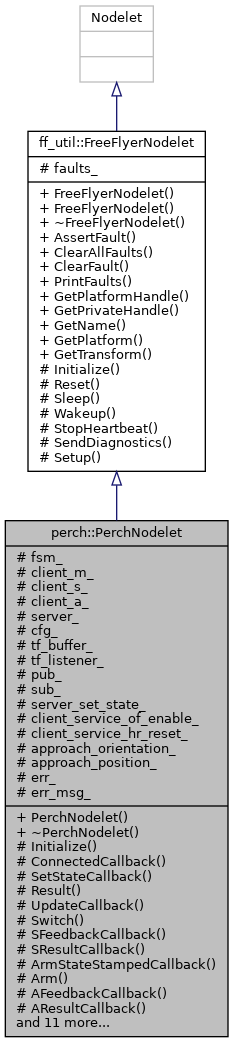
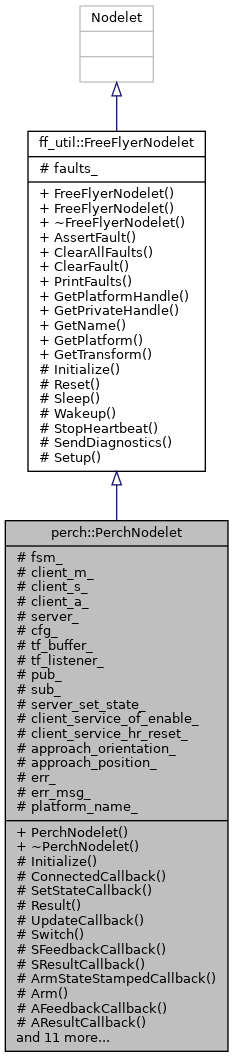
Automatic update for 440bc509898db420d36bb45fcc897477e37b78e2.

diff --git a/html/classperch_1_1PerchNodelet-members.html b/html/classperch_1_1PerchNodelet-members.html
@@ -149,41 +149,42 @@ $(document).ready(function(){initNavTree('classperch_1_1PerchNodelet.html',''); 
   <tr class="even"><td class="entry"><a class="el" href="classperch_1_1PerchNodelet.html#ad2a16e85c23e8ecea8188710818fe34aa5fa9d0b422ba157597ae1971b6d04cf5">PERCHED_POSE</a> enum value</td><td class="entry"><a class="el" href="classperch_1_1PerchNodelet.html">perch::PerchNodelet</a></td><td class="entry"></td></tr>
   <tr><td class="entry"><a class="el" href="classperch_1_1PerchNodelet.html#ab66fa590d2d337125562be31e0b57f59">PerchNodelet</a>()</td><td class="entry"><a class="el" href="classperch_1_1PerchNodelet.html">perch::PerchNodelet</a></td><td class="entry"><span class="mlabel">inline</span></td></tr>
   <tr class="even"><td class="entry"><a class="el" href="classperch_1_1PerchNodelet.html#ad2a16e85c23e8ecea8188710818fe34a">PerchPose</a> enum name</td><td class="entry"><a class="el" href="classperch_1_1PerchNodelet.html">perch::PerchNodelet</a></td><td class="entry"></td></tr>
-  <tr><td class="entry"><a class="el" href="classperch_1_1PerchNodelet.html#a13f90db0a3c7656fc5259d3a6a59ad55">PreemptCallback</a>()</td><td class="entry"><a class="el" href="classperch_1_1PerchNodelet.html">perch::PerchNodelet</a></td><td class="entry"><span class="mlabel">inline</span><span class="mlabel">protected</span></td></tr>
-  <tr class="even"><td class="entry"><a class="el" href="classperch_1_1PerchNodelet.html#acc71620066bdf17cabfdd3fb240f916a">Prep</a>(std::string const &amp;flight_mode)</td><td class="entry"><a class="el" href="classperch_1_1PerchNodelet.html">perch::PerchNodelet</a></td><td class="entry"><span class="mlabel">inline</span><span class="mlabel">protected</span></td></tr>
-  <tr><td class="entry"><a class="el" href="classff__util_1_1FreeFlyerNodelet.html#a4587540a3e0c0ab730abcf2133769964">PrintFaults</a>()</td><td class="entry"><a class="el" href="classff__util_1_1FreeFlyerNodelet.html">ff_util::FreeFlyerNodelet</a></td><td class="entry"></td></tr>
-  <tr class="even"><td class="entry"><a class="el" href="classperch_1_1PerchNodelet.html#ac66d2e7100cebd51326bc5b4eb410571adce2a29ca1815cfdf3c363ff689e65b8">PROXIMAL</a> enum value</td><td class="entry"><a class="el" href="classperch_1_1PerchNodelet.html">perch::PerchNodelet</a></td><td class="entry"></td></tr>
-  <tr><td class="entry"><a class="el" href="classperch_1_1PerchNodelet.html#a9d221a6052be407ad7d842a3bd6b0ad9">pub_</a></td><td class="entry"><a class="el" href="classperch_1_1PerchNodelet.html">perch::PerchNodelet</a></td><td class="entry"><span class="mlabel">protected</span></td></tr>
-  <tr class="even"><td class="entry"><a class="el" href="classperch_1_1PerchNodelet.html#a04c41d4211d1e163ef3a006dcdccf720af66be780679f25013369c01e3120ae4c">READY</a> enum value</td><td class="entry"><a class="el" href="classperch_1_1PerchNodelet.html">perch::PerchNodelet</a></td><td class="entry"></td></tr>
-  <tr><td class="entry"><a class="el" href="classperch_1_1PerchNodelet.html#ab07cd2ba225f21eb338d264daffacada">ReconfigureCallback</a>(dynamic_reconfigure::Config &amp;config)</td><td class="entry"><a class="el" href="classperch_1_1PerchNodelet.html">perch::PerchNodelet</a></td><td class="entry"><span class="mlabel">inline</span><span class="mlabel">protected</span></td></tr>
-  <tr class="even"><td class="entry"><a class="el" href="classperch_1_1PerchNodelet.html#ad2a16e85c23e8ecea8188710818fe34aa5e66d35579fba73113bfdc6a1e8aed64">RECOVERY_POSE</a> enum value</td><td class="entry"><a class="el" href="classperch_1_1PerchNodelet.html">perch::PerchNodelet</a></td><td class="entry"></td></tr>
-  <tr><td class="entry"><a class="el" href="classff__util_1_1FreeFlyerNodelet.html#a39839ecffed8b8045b5525074b568daf">Reset</a>()</td><td class="entry"><a class="el" href="classff__util_1_1FreeFlyerNodelet.html">ff_util::FreeFlyerNodelet</a></td><td class="entry"><span class="mlabel">inline</span><span class="mlabel">protected</span><span class="mlabel">virtual</span></td></tr>
-  <tr class="even"><td class="entry"><a class="el" href="classff__util_1_1FreeFlyerNodelet.html#aaa7a7972cd2a9cf72c38f831fee9eb33">ResolveType</a> enum name</td><td class="entry"><a class="el" href="classff__util_1_1FreeFlyerNodelet.html">ff_util::FreeFlyerNodelet</a></td><td class="entry"></td></tr>
-  <tr><td class="entry"><a class="el" href="classff__util_1_1FreeFlyerNodelet.html#aaa7a7972cd2a9cf72c38f831fee9eb33a4891484c396fd9b1e331521f3c5233e1">RESOURCE</a> enum value</td><td class="entry"><a class="el" href="classff__util_1_1FreeFlyerNodelet.html">ff_util::FreeFlyerNodelet</a></td><td class="entry"></td></tr>
-  <tr class="even"><td class="entry"><a class="el" href="classperch_1_1PerchNodelet.html#a3f0867fdd7d457fc89ee1ac8106ca30f">Result</a>(int32_t response, std::string const &amp;msg=&quot;&quot;)</td><td class="entry"><a class="el" href="classperch_1_1PerchNodelet.html">perch::PerchNodelet</a></td><td class="entry"><span class="mlabel">inline</span><span class="mlabel">protected</span></td></tr>
-  <tr><td class="entry"><a class="el" href="classperch_1_1PerchNodelet.html#a4cc13935161b3593ddb10ad72093dc50">SaveApproachPose</a>(void)</td><td class="entry"><a class="el" href="classperch_1_1PerchNodelet.html">perch::PerchNodelet</a></td><td class="entry"><span class="mlabel">inline</span><span class="mlabel">protected</span></td></tr>
-  <tr class="even"><td class="entry"><a class="el" href="classff__util_1_1FreeFlyerNodelet.html#afe589d3b48ecc862af9dfaf193d2342f">SendDiagnostics</a>(const std::vector&lt; diagnostic_msgs::KeyValue &gt; &amp;keyval)</td><td class="entry"><a class="el" href="classff__util_1_1FreeFlyerNodelet.html">ff_util::FreeFlyerNodelet</a></td><td class="entry"><span class="mlabel">protected</span></td></tr>
-  <tr><td class="entry"><a class="el" href="classperch_1_1PerchNodelet.html#ad369d9cb8c9f8a0613aae0413d3aebd8">server_</a></td><td class="entry"><a class="el" href="classperch_1_1PerchNodelet.html">perch::PerchNodelet</a></td><td class="entry"><span class="mlabel">protected</span></td></tr>
-  <tr class="even"><td class="entry"><a class="el" href="classperch_1_1PerchNodelet.html#a28080b67030739ce85aed8f3df52aaec">server_set_state_</a></td><td class="entry"><a class="el" href="classperch_1_1PerchNodelet.html">perch::PerchNodelet</a></td><td class="entry"><span class="mlabel">protected</span></td></tr>
-  <tr><td class="entry"><a class="el" href="classperch_1_1PerchNodelet.html#ac66d2e7100cebd51326bc5b4eb410571">ServoID</a> enum name</td><td class="entry"><a class="el" href="classperch_1_1PerchNodelet.html">perch::PerchNodelet</a></td><td class="entry"></td></tr>
-  <tr class="even"><td class="entry"><a class="el" href="classperch_1_1PerchNodelet.html#a92f73e5cfed8855159a4338e6a695d32">SetStateCallback</a>(ff_msgs::SetState::Request &amp;req, ff_msgs::SetState::Response &amp;res)</td><td class="entry"><a class="el" href="classperch_1_1PerchNodelet.html">perch::PerchNodelet</a></td><td class="entry"><span class="mlabel">inline</span><span class="mlabel">protected</span></td></tr>
-  <tr><td class="entry"><a class="el" href="classff__util_1_1FreeFlyerNodelet.html#a8c14890099697bcbfc10a898ba0696f0">Setup</a>(ros::NodeHandle &amp;nh, ros::NodeHandle &amp;nh_mt)</td><td class="entry"><a class="el" href="classff__util_1_1FreeFlyerNodelet.html">ff_util::FreeFlyerNodelet</a></td><td class="entry"><span class="mlabel">protected</span></td></tr>
-  <tr class="even"><td class="entry"><a class="el" href="classperch_1_1PerchNodelet.html#a7f746a3f330731db12b06a459b780b0e">SFeedbackCallback</a>(ff_msgs::LocalizationFeedbackConstPtr const &amp;feedback)</td><td class="entry"><a class="el" href="classperch_1_1PerchNodelet.html">perch::PerchNodelet</a></td><td class="entry"><span class="mlabel">inline</span><span class="mlabel">protected</span></td></tr>
-  <tr><td class="entry"><a class="el" href="classff__util_1_1FreeFlyerNodelet.html#a8b15ae96c86e24050c7dd468e988690e">Sleep</a>()</td><td class="entry"><a class="el" href="classff__util_1_1FreeFlyerNodelet.html">ff_util::FreeFlyerNodelet</a></td><td class="entry"><span class="mlabel">inline</span><span class="mlabel">protected</span><span class="mlabel">virtual</span></td></tr>
-  <tr class="even"><td class="entry"><a class="el" href="classperch_1_1PerchNodelet.html#a7b8b24ee33a46b0b606bb949aae603ca">SResultCallback</a>(ff_util::FreeFlyerActionState::Enum result_code, ff_msgs::LocalizationResultConstPtr const &amp;result)</td><td class="entry"><a class="el" href="classperch_1_1PerchNodelet.html">perch::PerchNodelet</a></td><td class="entry"><span class="mlabel">inline</span><span class="mlabel">protected</span></td></tr>
-  <tr><td class="entry"><a class="el" href="classff__util_1_1FreeFlyerNodelet.html#a7089eceb2b3bd66fb091b37693388e24">StopHeartbeat</a>()</td><td class="entry"><a class="el" href="classff__util_1_1FreeFlyerNodelet.html">ff_util::FreeFlyerNodelet</a></td><td class="entry"><span class="mlabel">protected</span></td></tr>
-  <tr class="even"><td class="entry"><a class="el" href="classperch_1_1PerchNodelet.html#a2c09f5a5e682dd540372e587cef6d77e">sub_</a></td><td class="entry"><a class="el" href="classperch_1_1PerchNodelet.html">perch::PerchNodelet</a></td><td class="entry"><span class="mlabel">protected</span></td></tr>
-  <tr><td class="entry"><a class="el" href="classperch_1_1PerchNodelet.html#a5fbc25618216ca7593864f1c191d77fa">Switch</a>(std::string const &amp;pipeline)</td><td class="entry"><a class="el" href="classperch_1_1PerchNodelet.html">perch::PerchNodelet</a></td><td class="entry"><span class="mlabel">inline</span><span class="mlabel">protected</span></td></tr>
-  <tr class="even"><td class="entry"><a class="el" href="classperch_1_1PerchNodelet.html#a04c41d4211d1e163ef3a006dcdccf720abe5983f83e54d0fcee44c19d1250cb84">SWITCH_FAILED</a> enum value</td><td class="entry"><a class="el" href="classperch_1_1PerchNodelet.html">perch::PerchNodelet</a></td><td class="entry"></td></tr>
-  <tr><td class="entry"><a class="el" href="classperch_1_1PerchNodelet.html#a04c41d4211d1e163ef3a006dcdccf720abe8aa48a128f67212d170e0b11248b6b">SWITCH_SUCCESS</a> enum value</td><td class="entry"><a class="el" href="classperch_1_1PerchNodelet.html">perch::PerchNodelet</a></td><td class="entry"></td></tr>
-  <tr class="even"><td class="entry"><a class="el" href="classperch_1_1PerchNodelet.html#a5da84625d974f5bf4405dd80999284a2">tf_buffer_</a></td><td class="entry"><a class="el" href="classperch_1_1PerchNodelet.html">perch::PerchNodelet</a></td><td class="entry"><span class="mlabel">protected</span></td></tr>
-  <tr><td class="entry"><a class="el" href="classperch_1_1PerchNodelet.html#adf4963218870de293cbd5e8dd28c1e4a">tf_listener_</a></td><td class="entry"><a class="el" href="classperch_1_1PerchNodelet.html">perch::PerchNodelet</a></td><td class="entry"><span class="mlabel">protected</span></td></tr>
-  <tr class="even"><td class="entry"><a class="el" href="classff__util_1_1FreeFlyerNodelet.html#aaa7a7972cd2a9cf72c38f831fee9eb33a975c794b90b06b8a2f47ac156f7050ec">TRANSFORM</a> enum value</td><td class="entry"><a class="el" href="classff__util_1_1FreeFlyerNodelet.html">ff_util::FreeFlyerNodelet</a></td><td class="entry"></td></tr>
-  <tr><td class="entry"><a class="el" href="classperch_1_1PerchNodelet.html#ad2a16e85c23e8ecea8188710818fe34aa88ec5eda6fef2b26349c2f127edb02ae">UNPERCHED_POSE</a> enum value</td><td class="entry"><a class="el" href="classperch_1_1PerchNodelet.html">perch::PerchNodelet</a></td><td class="entry"></td></tr>
-  <tr class="even"><td class="entry"><a class="el" href="classperch_1_1PerchNodelet.html#a0c8ff07fdc5403f78edb7551c330d4f3">UpdateCallback</a>(FSM::State const &amp;state, FSM::Event const &amp;event)</td><td class="entry"><a class="el" href="classperch_1_1PerchNodelet.html">perch::PerchNodelet</a></td><td class="entry"><span class="mlabel">inline</span><span class="mlabel">protected</span></td></tr>
-  <tr><td class="entry"><a class="el" href="classff__util_1_1FreeFlyerNodelet.html#aeb3ccafc1f4ffbb5e376c07c0f1eb3e8">Wakeup</a>()</td><td class="entry"><a class="el" href="classff__util_1_1FreeFlyerNodelet.html">ff_util::FreeFlyerNodelet</a></td><td class="entry"><span class="mlabel">inline</span><span class="mlabel">protected</span><span class="mlabel">virtual</span></td></tr>
-  <tr class="even"><td class="entry"><a class="el" href="classff__util_1_1FreeFlyerNodelet.html#af1b70761df2728f93b371ae518000a92">~FreeFlyerNodelet</a>()</td><td class="entry"><a class="el" href="classff__util_1_1FreeFlyerNodelet.html">ff_util::FreeFlyerNodelet</a></td><td class="entry"><span class="mlabel">virtual</span></td></tr>
-  <tr><td class="entry"><a class="el" href="classperch_1_1PerchNodelet.html#aa16619d6acc3767026608d96dbf93409">~PerchNodelet</a>()</td><td class="entry"><a class="el" href="classperch_1_1PerchNodelet.html">perch::PerchNodelet</a></td><td class="entry"><span class="mlabel">inline</span></td></tr>
+  <tr><td class="entry"><a class="el" href="classperch_1_1PerchNodelet.html#a2d02a7c1e8344a5b55b573f8221379db">platform_name_</a></td><td class="entry"><a class="el" href="classperch_1_1PerchNodelet.html">perch::PerchNodelet</a></td><td class="entry"><span class="mlabel">protected</span></td></tr>
+  <tr class="even"><td class="entry"><a class="el" href="classperch_1_1PerchNodelet.html#a13f90db0a3c7656fc5259d3a6a59ad55">PreemptCallback</a>()</td><td class="entry"><a class="el" href="classperch_1_1PerchNodelet.html">perch::PerchNodelet</a></td><td class="entry"><span class="mlabel">inline</span><span class="mlabel">protected</span></td></tr>
+  <tr><td class="entry"><a class="el" href="classperch_1_1PerchNodelet.html#acc71620066bdf17cabfdd3fb240f916a">Prep</a>(std::string const &amp;flight_mode)</td><td class="entry"><a class="el" href="classperch_1_1PerchNodelet.html">perch::PerchNodelet</a></td><td class="entry"><span class="mlabel">inline</span><span class="mlabel">protected</span></td></tr>
+  <tr class="even"><td class="entry"><a class="el" href="classff__util_1_1FreeFlyerNodelet.html#a4587540a3e0c0ab730abcf2133769964">PrintFaults</a>()</td><td class="entry"><a class="el" href="classff__util_1_1FreeFlyerNodelet.html">ff_util::FreeFlyerNodelet</a></td><td class="entry"></td></tr>
+  <tr><td class="entry"><a class="el" href="classperch_1_1PerchNodelet.html#ac66d2e7100cebd51326bc5b4eb410571adce2a29ca1815cfdf3c363ff689e65b8">PROXIMAL</a> enum value</td><td class="entry"><a class="el" href="classperch_1_1PerchNodelet.html">perch::PerchNodelet</a></td><td class="entry"></td></tr>
+  <tr class="even"><td class="entry"><a class="el" href="classperch_1_1PerchNodelet.html#a9d221a6052be407ad7d842a3bd6b0ad9">pub_</a></td><td class="entry"><a class="el" href="classperch_1_1PerchNodelet.html">perch::PerchNodelet</a></td><td class="entry"><span class="mlabel">protected</span></td></tr>
+  <tr><td class="entry"><a class="el" href="classperch_1_1PerchNodelet.html#a04c41d4211d1e163ef3a006dcdccf720af66be780679f25013369c01e3120ae4c">READY</a> enum value</td><td class="entry"><a class="el" href="classperch_1_1PerchNodelet.html">perch::PerchNodelet</a></td><td class="entry"></td></tr>
+  <tr class="even"><td class="entry"><a class="el" href="classperch_1_1PerchNodelet.html#ab07cd2ba225f21eb338d264daffacada">ReconfigureCallback</a>(dynamic_reconfigure::Config &amp;config)</td><td class="entry"><a class="el" href="classperch_1_1PerchNodelet.html">perch::PerchNodelet</a></td><td class="entry"><span class="mlabel">inline</span><span class="mlabel">protected</span></td></tr>
+  <tr><td class="entry"><a class="el" href="classperch_1_1PerchNodelet.html#ad2a16e85c23e8ecea8188710818fe34aa5e66d35579fba73113bfdc6a1e8aed64">RECOVERY_POSE</a> enum value</td><td class="entry"><a class="el" href="classperch_1_1PerchNodelet.html">perch::PerchNodelet</a></td><td class="entry"></td></tr>
+  <tr class="even"><td class="entry"><a class="el" href="classff__util_1_1FreeFlyerNodelet.html#a39839ecffed8b8045b5525074b568daf">Reset</a>()</td><td class="entry"><a class="el" href="classff__util_1_1FreeFlyerNodelet.html">ff_util::FreeFlyerNodelet</a></td><td class="entry"><span class="mlabel">inline</span><span class="mlabel">protected</span><span class="mlabel">virtual</span></td></tr>
+  <tr><td class="entry"><a class="el" href="classff__util_1_1FreeFlyerNodelet.html#aaa7a7972cd2a9cf72c38f831fee9eb33">ResolveType</a> enum name</td><td class="entry"><a class="el" href="classff__util_1_1FreeFlyerNodelet.html">ff_util::FreeFlyerNodelet</a></td><td class="entry"></td></tr>
+  <tr class="even"><td class="entry"><a class="el" href="classff__util_1_1FreeFlyerNodelet.html#aaa7a7972cd2a9cf72c38f831fee9eb33a4891484c396fd9b1e331521f3c5233e1">RESOURCE</a> enum value</td><td class="entry"><a class="el" href="classff__util_1_1FreeFlyerNodelet.html">ff_util::FreeFlyerNodelet</a></td><td class="entry"></td></tr>
+  <tr><td class="entry"><a class="el" href="classperch_1_1PerchNodelet.html#a3f0867fdd7d457fc89ee1ac8106ca30f">Result</a>(int32_t response, std::string const &amp;msg=&quot;&quot;)</td><td class="entry"><a class="el" href="classperch_1_1PerchNodelet.html">perch::PerchNodelet</a></td><td class="entry"><span class="mlabel">inline</span><span class="mlabel">protected</span></td></tr>
+  <tr class="even"><td class="entry"><a class="el" href="classperch_1_1PerchNodelet.html#a4cc13935161b3593ddb10ad72093dc50">SaveApproachPose</a>(void)</td><td class="entry"><a class="el" href="classperch_1_1PerchNodelet.html">perch::PerchNodelet</a></td><td class="entry"><span class="mlabel">inline</span><span class="mlabel">protected</span></td></tr>
+  <tr><td class="entry"><a class="el" href="classff__util_1_1FreeFlyerNodelet.html#afe589d3b48ecc862af9dfaf193d2342f">SendDiagnostics</a>(const std::vector&lt; diagnostic_msgs::KeyValue &gt; &amp;keyval)</td><td class="entry"><a class="el" href="classff__util_1_1FreeFlyerNodelet.html">ff_util::FreeFlyerNodelet</a></td><td class="entry"><span class="mlabel">protected</span></td></tr>
+  <tr class="even"><td class="entry"><a class="el" href="classperch_1_1PerchNodelet.html#ad369d9cb8c9f8a0613aae0413d3aebd8">server_</a></td><td class="entry"><a class="el" href="classperch_1_1PerchNodelet.html">perch::PerchNodelet</a></td><td class="entry"><span class="mlabel">protected</span></td></tr>
+  <tr><td class="entry"><a class="el" href="classperch_1_1PerchNodelet.html#a28080b67030739ce85aed8f3df52aaec">server_set_state_</a></td><td class="entry"><a class="el" href="classperch_1_1PerchNodelet.html">perch::PerchNodelet</a></td><td class="entry"><span class="mlabel">protected</span></td></tr>
+  <tr class="even"><td class="entry"><a class="el" href="classperch_1_1PerchNodelet.html#ac66d2e7100cebd51326bc5b4eb410571">ServoID</a> enum name</td><td class="entry"><a class="el" href="classperch_1_1PerchNodelet.html">perch::PerchNodelet</a></td><td class="entry"></td></tr>
+  <tr><td class="entry"><a class="el" href="classperch_1_1PerchNodelet.html#a92f73e5cfed8855159a4338e6a695d32">SetStateCallback</a>(ff_msgs::SetState::Request &amp;req, ff_msgs::SetState::Response &amp;res)</td><td class="entry"><a class="el" href="classperch_1_1PerchNodelet.html">perch::PerchNodelet</a></td><td class="entry"><span class="mlabel">inline</span><span class="mlabel">protected</span></td></tr>
+  <tr class="even"><td class="entry"><a class="el" href="classff__util_1_1FreeFlyerNodelet.html#a8c14890099697bcbfc10a898ba0696f0">Setup</a>(ros::NodeHandle &amp;nh, ros::NodeHandle &amp;nh_mt)</td><td class="entry"><a class="el" href="classff__util_1_1FreeFlyerNodelet.html">ff_util::FreeFlyerNodelet</a></td><td class="entry"><span class="mlabel">protected</span></td></tr>
+  <tr><td class="entry"><a class="el" href="classperch_1_1PerchNodelet.html#a7f746a3f330731db12b06a459b780b0e">SFeedbackCallback</a>(ff_msgs::LocalizationFeedbackConstPtr const &amp;feedback)</td><td class="entry"><a class="el" href="classperch_1_1PerchNodelet.html">perch::PerchNodelet</a></td><td class="entry"><span class="mlabel">inline</span><span class="mlabel">protected</span></td></tr>
+  <tr class="even"><td class="entry"><a class="el" href="classff__util_1_1FreeFlyerNodelet.html#a8b15ae96c86e24050c7dd468e988690e">Sleep</a>()</td><td class="entry"><a class="el" href="classff__util_1_1FreeFlyerNodelet.html">ff_util::FreeFlyerNodelet</a></td><td class="entry"><span class="mlabel">inline</span><span class="mlabel">protected</span><span class="mlabel">virtual</span></td></tr>
+  <tr><td class="entry"><a class="el" href="classperch_1_1PerchNodelet.html#a7b8b24ee33a46b0b606bb949aae603ca">SResultCallback</a>(ff_util::FreeFlyerActionState::Enum result_code, ff_msgs::LocalizationResultConstPtr const &amp;result)</td><td class="entry"><a class="el" href="classperch_1_1PerchNodelet.html">perch::PerchNodelet</a></td><td class="entry"><span class="mlabel">inline</span><span class="mlabel">protected</span></td></tr>
+  <tr class="even"><td class="entry"><a class="el" href="classff__util_1_1FreeFlyerNodelet.html#a7089eceb2b3bd66fb091b37693388e24">StopHeartbeat</a>()</td><td class="entry"><a class="el" href="classff__util_1_1FreeFlyerNodelet.html">ff_util::FreeFlyerNodelet</a></td><td class="entry"><span class="mlabel">protected</span></td></tr>
+  <tr><td class="entry"><a class="el" href="classperch_1_1PerchNodelet.html#a2c09f5a5e682dd540372e587cef6d77e">sub_</a></td><td class="entry"><a class="el" href="classperch_1_1PerchNodelet.html">perch::PerchNodelet</a></td><td class="entry"><span class="mlabel">protected</span></td></tr>
+  <tr class="even"><td class="entry"><a class="el" href="classperch_1_1PerchNodelet.html#a5fbc25618216ca7593864f1c191d77fa">Switch</a>(std::string const &amp;pipeline)</td><td class="entry"><a class="el" href="classperch_1_1PerchNodelet.html">perch::PerchNodelet</a></td><td class="entry"><span class="mlabel">inline</span><span class="mlabel">protected</span></td></tr>
+  <tr><td class="entry"><a class="el" href="classperch_1_1PerchNodelet.html#a04c41d4211d1e163ef3a006dcdccf720abe5983f83e54d0fcee44c19d1250cb84">SWITCH_FAILED</a> enum value</td><td class="entry"><a class="el" href="classperch_1_1PerchNodelet.html">perch::PerchNodelet</a></td><td class="entry"></td></tr>
+  <tr class="even"><td class="entry"><a class="el" href="classperch_1_1PerchNodelet.html#a04c41d4211d1e163ef3a006dcdccf720abe8aa48a128f67212d170e0b11248b6b">SWITCH_SUCCESS</a> enum value</td><td class="entry"><a class="el" href="classperch_1_1PerchNodelet.html">perch::PerchNodelet</a></td><td class="entry"></td></tr>
+  <tr><td class="entry"><a class="el" href="classperch_1_1PerchNodelet.html#a5da84625d974f5bf4405dd80999284a2">tf_buffer_</a></td><td class="entry"><a class="el" href="classperch_1_1PerchNodelet.html">perch::PerchNodelet</a></td><td class="entry"><span class="mlabel">protected</span></td></tr>
+  <tr class="even"><td class="entry"><a class="el" href="classperch_1_1PerchNodelet.html#adf4963218870de293cbd5e8dd28c1e4a">tf_listener_</a></td><td class="entry"><a class="el" href="classperch_1_1PerchNodelet.html">perch::PerchNodelet</a></td><td class="entry"><span class="mlabel">protected</span></td></tr>
+  <tr><td class="entry"><a class="el" href="classff__util_1_1FreeFlyerNodelet.html#aaa7a7972cd2a9cf72c38f831fee9eb33a975c794b90b06b8a2f47ac156f7050ec">TRANSFORM</a> enum value</td><td class="entry"><a class="el" href="classff__util_1_1FreeFlyerNodelet.html">ff_util::FreeFlyerNodelet</a></td><td class="entry"></td></tr>
+  <tr class="even"><td class="entry"><a class="el" href="classperch_1_1PerchNodelet.html#ad2a16e85c23e8ecea8188710818fe34aa88ec5eda6fef2b26349c2f127edb02ae">UNPERCHED_POSE</a> enum value</td><td class="entry"><a class="el" href="classperch_1_1PerchNodelet.html">perch::PerchNodelet</a></td><td class="entry"></td></tr>
+  <tr><td class="entry"><a class="el" href="classperch_1_1PerchNodelet.html#a0c8ff07fdc5403f78edb7551c330d4f3">UpdateCallback</a>(FSM::State const &amp;state, FSM::Event const &amp;event)</td><td class="entry"><a class="el" href="classperch_1_1PerchNodelet.html">perch::PerchNodelet</a></td><td class="entry"><span class="mlabel">inline</span><span class="mlabel">protected</span></td></tr>
+  <tr class="even"><td class="entry"><a class="el" href="classff__util_1_1FreeFlyerNodelet.html#aeb3ccafc1f4ffbb5e376c07c0f1eb3e8">Wakeup</a>()</td><td class="entry"><a class="el" href="classff__util_1_1FreeFlyerNodelet.html">ff_util::FreeFlyerNodelet</a></td><td class="entry"><span class="mlabel">inline</span><span class="mlabel">protected</span><span class="mlabel">virtual</span></td></tr>
+  <tr><td class="entry"><a class="el" href="classff__util_1_1FreeFlyerNodelet.html#af1b70761df2728f93b371ae518000a92">~FreeFlyerNodelet</a>()</td><td class="entry"><a class="el" href="classff__util_1_1FreeFlyerNodelet.html">ff_util::FreeFlyerNodelet</a></td><td class="entry"><span class="mlabel">virtual</span></td></tr>
+  <tr class="even"><td class="entry"><a class="el" href="classperch_1_1PerchNodelet.html#aa16619d6acc3767026608d96dbf93409">~PerchNodelet</a>()</td><td class="entry"><a class="el" href="classperch_1_1PerchNodelet.html">perch::PerchNodelet</a></td><td class="entry"><span class="mlabel">inline</span></td></tr>
 </table></div><!-- contents -->
 </div><!-- doc-content -->
 <!-- HTML footer for doxygen 1.9.0-->

diff --git a/html/search/all_10.js b/html/search/all_10.js
@@ -194,7 +194,7 @@ var searchData=
   ['plannertrapezoidalnodelet_4153',['PlannerTrapezoidalNodelet',['../classplanner__trapezoidal_1_1PlannerTrapezoidalNodelet.html',1,'planner_trapezoidal::PlannerTrapezoidalNodelet'],['../classplanner__trapezoidal_1_1PlannerTrapezoidalNodelet.html#ae70ccad7f786722512dec2d4103b8954',1,'planner_trapezoidal::PlannerTrapezoidalNodelet::PlannerTrapezoidalNodelet()']]],
   ['planresult_4154',['PlanResult',['../classplanner_1_1PlannerImplementation.html#a83fe3fadb62bbb747c2e923c768534d7',1,'planner::PlannerImplementation']]],
   ['planstatusstamped_2emsg_4155',['PlanStatusStamped.msg',['../PlanStatusStamped_8msg.html',1,'']]],
-  ['platform_5fname_5f_4156',['platform_name_',['../classekf_1_1EkfWrapper.html#ad622be63d73bf5dd3c04ba47c812ff23',1,'ekf::EkfWrapper']]],
+  ['platform_5fname_5f_4156',['platform_name_',['../classekf_1_1EkfWrapper.html#ad622be63d73bf5dd3c04ba47c812ff23',1,'ekf::EkfWrapper::platform_name_()'],['../classperch_1_1PerchNodelet.html#a2d02a7c1e8344a5b55b573f8221379db',1,'perch::PerchNodelet::platform_name_()']]],
   ['plugin_5fframe_5f_4157',['plugin_frame_',['../classgazebo_1_1FreeFlyerPlugin.html#a62953a248df9a1ba3d4dee09da522fcd',1,'gazebo::FreeFlyerPlugin']]],
   ['plugin_5fname_5f_4158',['plugin_name_',['../classgazebo_1_1FreeFlyerPlugin.html#ab1e691356be91b0e243ed51ebd3035b3',1,'gazebo::FreeFlyerPlugin']]],
   ['pluginlib_5fexport_5fclass_4159',['PLUGINLIB_EXPORT_CLASS',['../namespaceeps__driver.html#a3b64ddd29834a5f8d4df5ba7680318d7',1,'eps_driver::PLUGINLIB_EXPORT_CLASS()'],['../epson__imu__nodelet_8cc.html#a1fa1585519a3a3969f8d0335e5319e8c',1,'PLUGINLIB_EXPORT_CLASS(epson_imu::EpsonImuNodelet, nodelet::Nodelet):&#160;epson_imu_nodelet.cc'],['../camera_8cc.html#a2957456e50c22592139e72ab3e7eedc5',1,'PLUGINLIB_EXPORT_CLASS(is_camera::CameraNodelet, nodelet::Nodelet):&#160;camera.cc'],['../namespaceperching__arm.html#aa650b4b156b459b41b25337c74f24c01',1,'perching_arm::PLUGINLIB_EXPORT_CLASS()'],['../namespacepico__driver.html#a797f7e28d269938770340cab2e7e6760',1,'pico_driver::PLUGINLIB_EXPORT_CLASS()'],['../namespacepmc__actuator.html#ab1fc23fb11194476497fd72513a585f2',1,'pmc_actuator::PLUGINLIB_EXPORT_CLASS()'],['../namespacesignal__lights.html#a3e352367d14f165d029fea8721d7da98',1,'signal_lights::PLUGINLIB_EXPORT_CLASS()'],['../namespacespeed__cam.html#ad090ae1496dd0cd3c557d36c9b61b4b7',1,'speed_cam::PLUGINLIB_EXPORT_CLASS()'],['../namespacetemp__monitor.html#a2cf7bfbbbb5f0a72a4d6cf57d61c5d08',1,'temp_monitor::PLUGINLIB_EXPORT_CLASS()'],['../namespacevive.html#a8651544d93cfd4c10ae991e927883ae1',1,'vive::PLUGINLIB_EXPORT_CLASS()'],['../ctl__nodelet_8cc.html#aac39c638cc88805a66ac675d45bb7425',1,'PLUGINLIB_EXPORT_CLASS(ctl::CtlNodelet, nodelet::Nodelet):&#160;ctl_nodelet.cc'],['../ekf__nodelet_8cc.html#adba8235bde87d6fa5facecd31d3dc073',1,'PLUGINLIB_EXPORT_CLASS(ekf::EkfNodelet, nodelet::Nodelet):&#160;ekf_nodelet.cc'],['../fam__nodelet_8cc.html#ad825e31872b62058e1dc600934ff0080',1,'PLUGINLIB_EXPORT_CLASS(fam::FamNodelet, nodelet::Nodelet):&#160;fam_nodelet.cc'],['../namespacesim__wrapper.html#a28f40e0df91f05fd09cbbada792bb475',1,'sim_wrapper::PLUGINLIB_EXPORT_CLASS()'],['../graph__localizer__nodelet_8cc.html#a9b66cd4746fac1bc7a7110b5441068b1',1,'PLUGINLIB_EXPORT_CLASS(graph_localizer::GraphLocalizerNodelet, nodelet::Nodelet):&#160;graph_localizer_nodelet.cc'],['../ground__truth__localizer__nodelet_8cc.html#affd8d78404bd29a8ceef1069a3671242',1,'PLUGINLIB_EXPORT_CLASS(ground_truth_localizer::GroundTruthLocalizerNodelet, nodelet::Nodelet):&#160;ground_truth_localizer_nodelet.cc'],['../namespacehandrail__detect.html#afa7881e99b0b388c6ef22bbb9449875f',1,'handrail_detect::PLUGINLIB_EXPORT_CLASS()'],['../imu__augmentor__nodelet_8cc.html#a4c3e0e130849a6795f7b1c8c7026a07f',1,'PLUGINLIB_EXPORT_CLASS():&#160;imu_augmentor_nodelet.cc'],['../namespacelocalization__manager.html#ae24af514d7ef1ae059e0b1467fa4f0d7',1,'localization_manager::PLUGINLIB_EXPORT_CLASS()'],['../namespacechoreographer.html#a805d22644c48edc0ff71114c003d6abf',1,'choreographer::PLUGINLIB_EXPORT_CLASS()'],['../namespacemobility.html#a1c096e341e69b6154179f0086ff7d0f7',1,'mobility::PLUGINLIB_EXPORT_CLASS()'],['../namespacemapper.html#a58359c6359e33813aa6336947b705921',1,'mapper::PLUGINLIB_EXPORT_CLASS()'],['../namespaceplanner__qp.html#aee010db2242eedf1ce40d615cb1b182c',1,'planner_qp::PLUGINLIB_EXPORT_CLASS()'],['../namespaceplanner__trapezoidal.html#a1197950d29415aea39ae367b1da73ccd',1,'planner_trapezoidal::PLUGINLIB_EXPORT_CLASS()'],['../namespacearm.html#a7bf762bd7bd87608e27b65cfbf5ff018',1,'arm::PLUGINLIB_EXPORT_CLASS()'],['../namespacedock.html#aa3fd32db1da0bb5fa990cbf4a8b260e8',1,'dock::PLUGINLIB_EXPORT_CLASS()'],['../namespacelight__flow.html#ac95df1fdb5a3fd696b6596e8aa33f505',1,'light_flow::PLUGINLIB_EXPORT_CLASS()'],['../namespaceperch.html#a6a47af5c0131367809bf91e236ecb041',1,'perch::PLUGINLIB_EXPORT_CLASS()'],['../namespacestates.html#a356a9812313488f4ceccf505cd6853e9',1,'states::PLUGINLIB_EXPORT_CLASS()'],['../imu__bias__tester__nodelet_8cc.html#ae4e27957247365a18e2cd72d9ec0e108',1,'PLUGINLIB_EXPORT_CLASS():&#160;imu_bias_tester_nodelet.cc'],['../namespacevisualeyez.html#a9c8236fe7eb95d1953de61b801b173c3',1,'visualeyez::PLUGINLIB_EXPORT_CLASS(visualeyez::VisualeyezBridge, nodelet::Nodelet)'],['../namespacevisualeyez.html#af965ac7ebf666a3ab059a7cbb81d49ca',1,'visualeyez::PLUGINLIB_EXPORT_CLASS(visualeyez::VisualeyezServer, nodelet::Nodelet)']]],

diff --git a/html/classperch_1_1PerchNodelet.html b/html/classperch_1_1PerchNodelet.html
@@ -102,7 +102,7 @@ Inheritance diagram for perch::PerchNodelet:</div>
 <div class="dyncontent">
 <div class="center"><img src="classperch_1_1PerchNodelet__inherit__graph.png" border="0" usemap="#aperch_1_1PerchNodelet_inherit__map" alt="Inheritance graph"/></div>
 <map name="perch_1_1PerchNodelet_inherit__map" id="aperch_1_1PerchNodelet_inherit__map">
-<area shape="rect" title=" " alt="" coords="5,520,228,1037"/>
+<area shape="rect" title=" " alt="" coords="5,520,228,1052"/>
 <area shape="rect" href="classff__util_1_1FreeFlyerNodelet.html" title=" " alt="" coords="28,131,205,472"/>
 <area shape="rect" title=" " alt="" coords="80,5,153,83"/>
 </map>
@@ -284,6 +284,8 @@ Protected Attributes</h2></td></tr>
 <tr class="separator:ac054b16fce5218ff8003bee62984db79"><td class="memSeparator" colspan="2">&#160;</td></tr>
 <tr class="memitem:aefd55deaff09f39806ba0881fd1846b0"><td class="memItemLeft" align="right" valign="top">std::string&#160;</td><td class="memItemRight" valign="bottom"><a class="el" href="classperch_1_1PerchNodelet.html#aefd55deaff09f39806ba0881fd1846b0">err_msg_</a></td></tr>
 <tr class="separator:aefd55deaff09f39806ba0881fd1846b0"><td class="memSeparator" colspan="2">&#160;</td></tr>
+<tr class="memitem:a2d02a7c1e8344a5b55b573f8221379db"><td class="memItemLeft" align="right" valign="top">std::string&#160;</td><td class="memItemRight" valign="bottom"><a class="el" href="classperch_1_1PerchNodelet.html#a2d02a7c1e8344a5b55b573f8221379db">platform_name_</a></td></tr>
+<tr class="separator:a2d02a7c1e8344a5b55b573f8221379db"><td class="memSeparator" colspan="2">&#160;</td></tr>
 <tr class="inherit_header pro_attribs_classff__util_1_1FreeFlyerNodelet"><td colspan="2" onclick="javascript:toggleInherit('pro_attribs_classff__util_1_1FreeFlyerNodelet')"><img src="closed.png" alt="-"/>&#160;Protected Attributes inherited from <a class="el" href="classff__util_1_1FreeFlyerNodelet.html">ff_util::FreeFlyerNodelet</a></td></tr>
 <tr class="memitem:ab3a560b870846b0ac9f68f72dd6463c6 inherit pro_attribs_classff__util_1_1FreeFlyerNodelet"><td class="memItemLeft" align="right" valign="top">std::map&lt; std::string, int &gt;&#160;</td><td class="memItemRight" valign="bottom"><a class="el" href="classff__util_1_1FreeFlyerNodelet.html#ab3a560b870846b0ac9f68f72dd6463c6">faults_</a></td></tr>
 <tr class="separator:ab3a560b870846b0ac9f68f72dd6463c6 inherit pro_attribs_classff__util_1_1FreeFlyerNodelet"><td class="memSeparator" colspan="2">&#160;</td></tr>
@@ -1314,6 +1316,28 @@ Protected Attributes</h2></td></tr>
       <table class="memname">
         <tr>
           <td class="memname"><a class="el" href="classff__util_1_1FSM.html">ff_util::FSM</a> perch::PerchNodelet::fsm_</td>
+        </tr>
+      </table>
+  </td>
+  <td class="mlabels-right">
+<span class="mlabels"><span class="mlabel">protected</span></span>  </td>
+  </tr>
+</table>
+</div><div class="memdoc">
+
+</div>
+</div>
+<a id="a2d02a7c1e8344a5b55b573f8221379db"></a>
+<h2 class="memtitle"><span class="permalink"><a href="#a2d02a7c1e8344a5b55b573f8221379db">&#9670;&nbsp;</a></span>platform_name_</h2>
+
+<div class="memitem">
+<div class="memproto">
+<table class="mlabels">
+  <tr>
+  <td class="mlabels-left">
+      <table class="memname">
+        <tr>
+          <td class="memname">std::string perch::PerchNodelet::platform_name_</td>
         </tr>
       </table>
   </td>

diff --git a/html/search/variables_f.js b/html/search/variables_f.js
@@ -40,7 +40,7 @@ var searchData=
   ['plan_5fstatus_5fpub_5f_11965',['plan_status_pub_',['../classexecutive_1_1Executive.html#af82d61b9b9bf97cc8676c121872cc446',1,'executive::Executive']]],
   ['plan_5fsub_5f_11966',['plan_sub_',['../classexecutive_1_1Executive.html#a544885fa26e00412aaa4316dbc2b7a94',1,'executive::Executive']]],
   ['planner_5fdt_5f_11967',['planner_dt_',['../classplanner__qp_1_1Planner.html#a84545b521c47b27523f3820a35a2949f',1,'planner_qp::Planner']]],
-  ['platform_5fname_5f_11968',['platform_name_',['../classekf_1_1EkfWrapper.html#ad622be63d73bf5dd3c04ba47c812ff23',1,'ekf::EkfWrapper']]],
+  ['platform_5fname_5f_11968',['platform_name_',['../classekf_1_1EkfWrapper.html#ad622be63d73bf5dd3c04ba47c812ff23',1,'ekf::EkfWrapper::platform_name_()'],['../classperch_1_1PerchNodelet.html#a2d02a7c1e8344a5b55b573f8221379db',1,'perch::PerchNodelet::platform_name_()']]],
   ['plugin_5fframe_5f_11969',['plugin_frame_',['../classgazebo_1_1FreeFlyerPlugin.html#a62953a248df9a1ba3d4dee09da522fcd',1,'gazebo::FreeFlyerPlugin']]],
   ['plugin_5fname_5f_11970',['plugin_name_',['../classgazebo_1_1FreeFlyerPlugin.html#ab1e691356be91b0e243ed51ebd3035b3',1,'gazebo::FreeFlyerPlugin']]],
   ['pmc_5fcommand_5fid_5f_11971',['pmc_command_id_',['../classsim__wrapper_1_1Sim.html#a79fb513d3e6ed8418b6b4c1bf0bdfe1f',1,'sim_wrapper::Sim']]],

diff --git a/html/functions_p.html b/html/functions_p.html
@@ -371,6 +371,7 @@ $(document).ready(function(){initNavTree('functions_p.html',''); initResizable()
 </li>
 <li>platform_name_
 : <a class="el" href="classekf_1_1EkfWrapper.html#ad622be63d73bf5dd3c04ba47c812ff23">ekf::EkfWrapper</a>
+, <a class="el" href="classperch_1_1PerchNodelet.html#a2d02a7c1e8344a5b55b573f8221379db">perch::PerchNodelet</a>
 </li>
 <li>plugin_frame_
 : <a class="el" href="classgazebo_1_1FreeFlyerPlugin.html#a62953a248df9a1ba3d4dee09da522fcd">gazebo::FreeFlyerPlugin</a>
@@ -1017,7 +1018,7 @@ $(document).ready(function(){initNavTree('functions_p.html',''); initResizable()
 : <a class="el" href="classgraph__localizer_1_1GraphLocalizerWrapper.html#a489c9fa9aadb7ce27e472358e99313ea">graph_localizer::GraphLocalizerWrapper</a>
 </li>
 <li>publish_msg()
-: <a class="el" href="classTrajRosBridge.html#a4216c07ffb7e0ff17a3a93ae3df9e5f9">TrajRosBridge</a>
+: <a class="el" href="classTrajRosBridge.html#abc6598f19e7be05024b83567167e353d">TrajRosBridge</a>
 </li>
 <li>publish_topic_
 : <a class="el" href="classff_1_1RapidPub.html#a13d8d54d8ba812616999bd5166b8b54d">ff::RapidPub</a>

diff --git a/html/classff__util_1_1FreeFlyerNodelet.html b/html/classff__util_1_1FreeFlyerNodelet.html
@@ -138,7 +138,7 @@ Inheritance diagram for ff_util::FreeFlyerNodelet:</div>
 <area shape="rect" href="classmapper_1_1MapperNodelet.html" title=" " alt="" coords="6846,769,7026,1052"/>
 <area shape="rect" href="classmarker__tracking__node_1_1MarkerTrackingNodelet.html" title=" " alt="" coords="7051,857,7248,964"/>
 <area shape="rect" href="classmobility_1_1FrameStore.html" title=" " alt="" coords="7272,828,7429,993"/>
-<area shape="rect" href="classperch_1_1PerchNodelet.html" title=" " alt="" coords="7454,652,7677,1169"/>
+<area shape="rect" href="classperch_1_1PerchNodelet.html" title=" " alt="" coords="7454,645,7677,1177"/>
 <area shape="rect" href="classperching__arm_1_1PerchingArmNode.html" title=" " alt="" coords="7701,777,7944,1045"/>
 <area shape="rect" href="classpico__driver_1_1PicoDriverNodelet.html" title=" " alt="" coords="7969,850,8189,971"/>
 <area shape="rect" href="classplanner_1_1PlannerImplementation.html" title=" " alt="" coords="8213,813,8445,1008"/>

diff --git a/html/functions_vars_p.html b/html/functions_vars_p.html
@@ -206,6 +206,7 @@ $(document).ready(function(){initNavTree('functions_vars_p.html',''); initResiza
 </li>
 <li>platform_name_
 : <a class="el" href="classekf_1_1EkfWrapper.html#ad622be63d73bf5dd3c04ba47c812ff23">ekf::EkfWrapper</a>
+, <a class="el" href="classperch_1_1PerchNodelet.html#a2d02a7c1e8344a5b55b573f8221379db">perch::PerchNodelet</a>
 </li>
 <li>plugin_frame_
 : <a class="el" href="classgazebo_1_1FreeFlyerPlugin.html#a62953a248df9a1ba3d4dee09da522fcd">gazebo::FreeFlyerPlugin</a>
